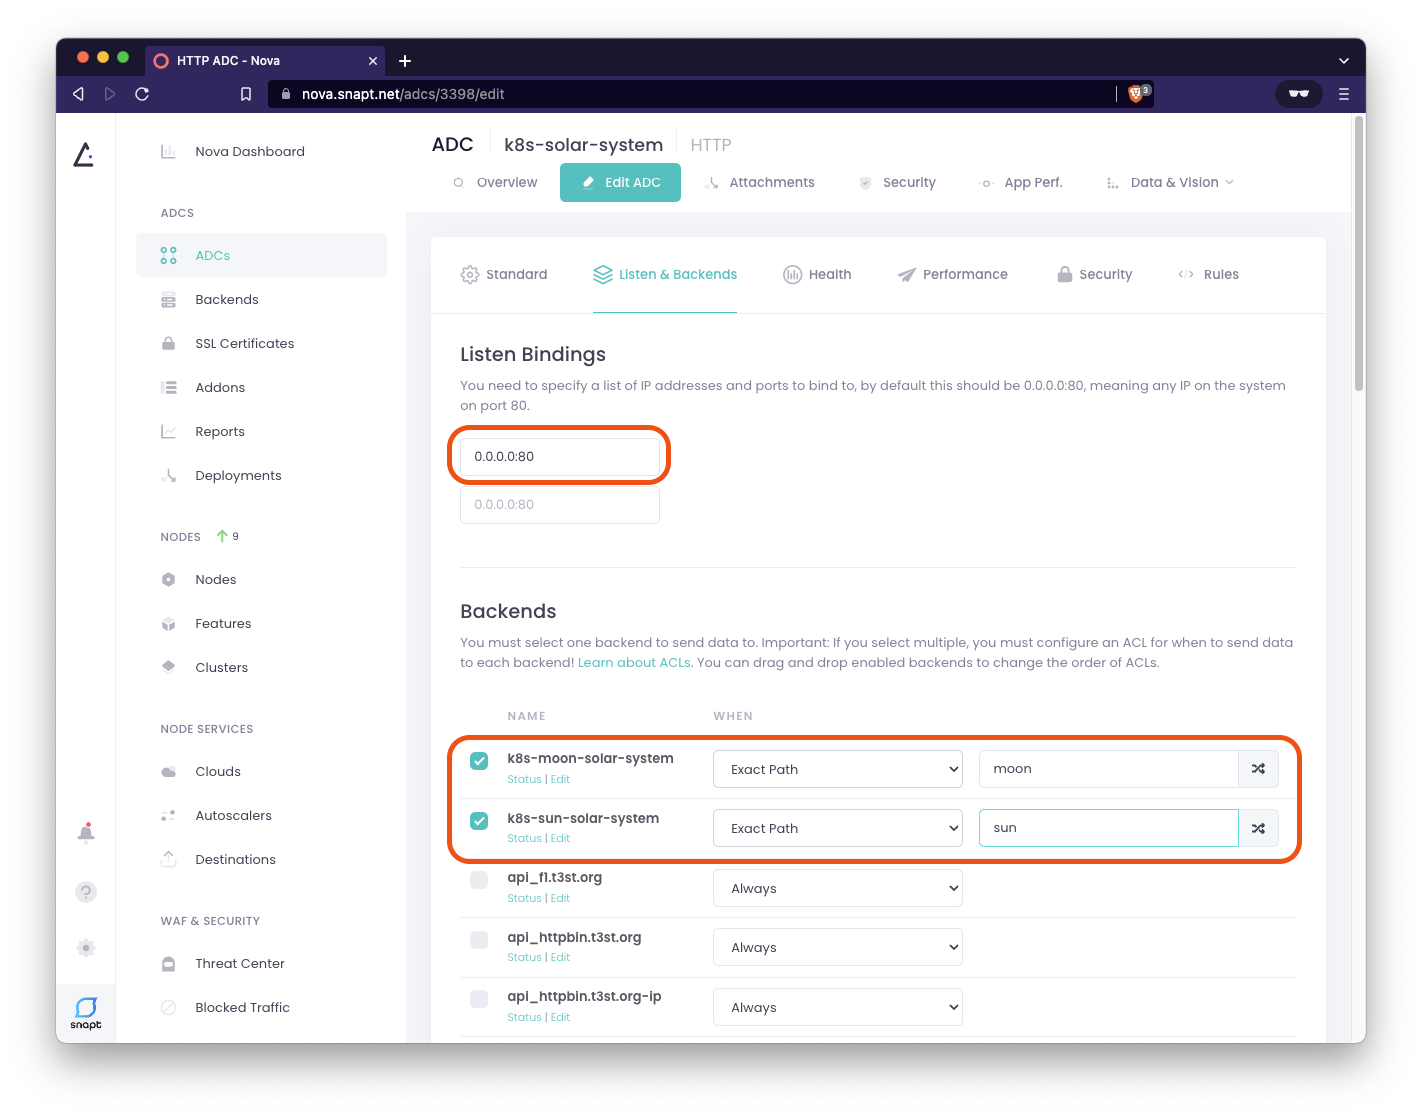
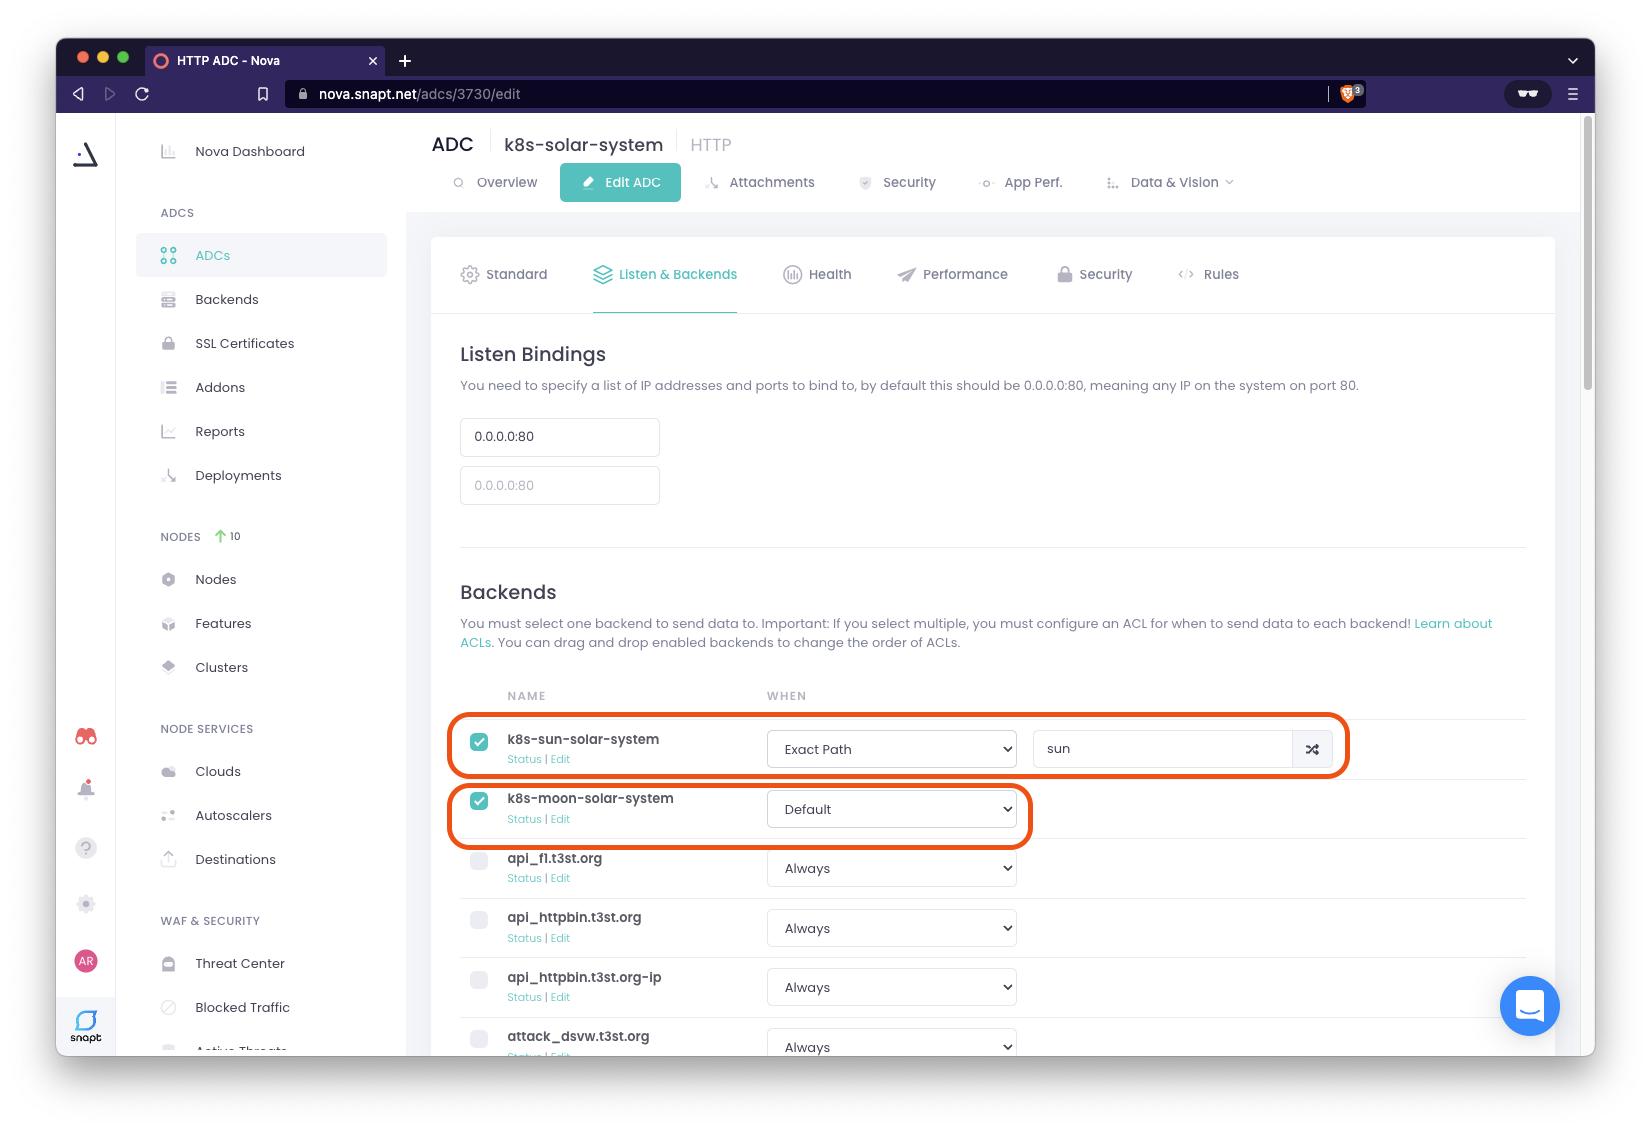
update readme

diff --git a/docs/deploy-nova-helm/service-discovery-normal-vs-headless-services.md b/docs/deploy-nova-helm/service-discovery-normal-vs-headless-services.md
@@ -55,21 +55,20 @@ pods in a "Headless" Services.
 ### Use a simple network utility Pod to test our DNS
 
 1. Use
-   [**dnsutils**](https://kubernetes.io/docs/tasks/administer-cluster/dns-debugging-resolution/),
+   [**network-tools**]https://github.com/armsultan/docker-network-tools),
    a utility Docker network troubleshooting container to run a DNS lookup. First
    deploy the network utility pod
 
    ```bash
    # Use this manifest to create the network utility Pod:
-   kubectl apply -f https://k8s.io/examples/admin/dns/dnsutils.yaml
-
-   pod/dnsutils created
+   kubectl apply -f deployments/tools/network-tools.yaml
+   pod/network-tools created
 
    # verify it's status
-   kubectl get pods dnsutils
+   kubectl get pods network-tools
 
-   NAME       READY   STATUS    RESTARTS   AGE
-   dnsutils   1/1     Running   0          37s
+   NAME           READY    STATUS    RESTARTS   AGE
+   network-tools   1/1     Running   0          37s
    ```
 
 ### Run DNS checks on "Normal" Service
@@ -80,13 +79,13 @@ deployed our sun and moon applications with a "normal" service. We used [this
 manifest file](../../deployments/simple-app/simple-app-service.yaml) which
 **does not** explicitly se `clusterIP: None`
 
-1.  Now that the `dnsutils` pod is running, you can use `kubectl exec` to do a `nslookup` or
+1.  Now that the `network-tools` pod is running, you can use `kubectl exec` to do a `nslookup` or
     `dig` or in that environment. If you see something like the following when
     querying for the **sun** service, DNS is working correctly.
 
    ```bash
    # Find out Sun Application
-   kubectl exec -i -t dnsutils -- nslookup  _http._tcp.sun-svc.solar-system.svc.cluster.local
+   kubectl exec -i -t network-tools -- nslookup  _http._tcp.sun-svc.solar-system.svc.cluster.local
 
    Server:         10.100.0.10
    Address:        10.100.0.10#53
@@ -103,7 +102,7 @@ manifest file](../../deployments/simple-app/simple-app-service.yaml) which
 
    ```bash
    # Find out Moon Application
-   kubectl exec -i -t dnsutils -- nslookup  _http._tcp.moon-svc.solar-system.svc.cluster.local
+   kubectl exec -i -t network-tools -- nslookup  _http._tcp.moon-svc.solar-system.svc.cluster.local
 
   Server:         10.100.0.10
   Address:        10.100.0.10#53
@@ -190,7 +189,7 @@ so we know to expect exactly two SRV records, one for each pod in the service
 
    ```bash
    # Find out Sun Application
-   kubectl exec -i -t dnsutils -- nslookup  _http._tcp.sun-svc.solar-system.svc.cluster.local
+   kubectl exec -i -t network-tools -- nslookup  _http._tcp.sun-svc.solar-system.svc.cluster.local
 
    Server:         10.100.0.10
    Address:        10.100.0.10#53
@@ -213,7 +212,7 @@ so we know to expect exactly two SRV records, one for each pod in the service
 
    ```bash
    # Find out Moon Application
-   kubectl exec -i -t dnsutils -- nslookup  _http._tcp.moon-svc.solar-system.svc.cluster.local
+   kubectl exec -i -t network-tools -- nslookup  _http._tcp.moon-svc.solar-system.svc.cluster.local
 
    Server:         10.100.0.10
    Address:        10.100.0.10#53
@@ -229,6 +228,44 @@ so we know to expect exactly two SRV records, one for each pod in the service
     with the address `192.168.70.95` and `192.168.26.52`, as it is a "headless"
     service
    * Again, we see `kube-dns` is the internal kubernetes DNS and is available on `10.100.0.10:53`
+
+### See load balancing via service in action
+
+1. Make some `curl` request to ther service discovery address from the network
+   utility container and witness request "load balance" between all pods *randomly*
+
+   ```bash
+   # Sun
+   kubectl exec -i -t network-tools -- /bin/bash -c "for i in {1..10}; do curl -s http://_http._tcp.sun-svc.solar-system.svc.cluster.local:8080 | grep 'Server address'; done"
+
+   Server address: 192.168.72.194:8080
+   Server address: 192.168.72.194:8080
+   Server address: 192.168.72.194:8080
+   Server address: 192.168.32.100:8080
+   Server address: 192.168.32.100:8080
+   Server address: 192.168.72.194:8080
+   Server address: 192.168.32.100:8080
+   Server address: 192.168.72.194:8080
+   Server address: 192.168.72.194:8080
+   Server address: 192.168.32.100:8080
+   ```
+
+   ```bash
+   # Moon
+   kubectl exec -i -t network-tools -- /bin/bash -c "for i in {1..10}; do curl -s http://_http._tcp.moon-svc.solar-system.svc.cluster.local:8080 | grep 'Server address'; done"
+
+   Server address: 192.168.70.95:8080
+   Server address: 192.168.26.52:8080
+   Server address: 192.168.26.52:8080
+   Server address: 192.168.70.95:8080
+   Server address: 192.168.70.95:8080
+   Server address: 192.168.26.52:8080
+   Server address: 192.168.70.95:8080
+   Server address: 192.168.26.52:8080
+   Server address: 192.168.26.52:8080
+   Server address: 192.168.26.52:8080
+   ```
+
 
 ### Optional: Use kubectl to find kube-dns address
 

diff --git a/docs/deploy-nova-helm/troubleshooting-nova-deployment.md b/docs/deploy-nova-helm/troubleshooting-nova-deployment.md
@@ -1,5 +1,76 @@
 WIP:
 
+
+kubectl exec -i -t network-tools -- dig ad95405e2bbfc4e97af5866540135fe2-1347037189.us-west-2.elb.amazonaws.com
+kubectl exec -i -t network-tools -- curl ad95405e2bbfc4e97af5866540135fe2-1347037189.us-west-2.elb.amazonaws.com
+
+## Test access to our application from *inside* the kubernetes cluster
+
+From our network utility container, *inside* the kubernetes cluster
+
+1.  Make a internal request using `curl` to the `sun-svc` service:
+    ```bash
+    kubectl exec -i -t network-tools -- curl  _http._tcp.sun-svc.solar-system.svc.cluster.local:8080
+    ```
+
+1. Make a internal request using `curl` to the `moon-svc` service:
+    ```bash
+    kubectl exec -i -t network-tools -- curl  _http._tcp.moon-svc.solar-system.svc.cluster.local:8080
+    ```
+
+1. Make a internal request using `curl` to the nova worker node (pod) directly using the `clusterIP`:
+    ```bash
+    # using the default / path
+    kubectl exec -i -t network-tools -- curl 10.100.138.162 -I
+
+    HTTP/1.1 200 OK
+    Date: Fri, 06 May 2022 16:45:50 GMT
+    Content-Type: text/plain
+    Content-Length: 210
+    Expires: Fri, 06 May 2022 16:45:49 GMT
+    Cache-Control: no-cache
+    Server: NOVA    # <---This confirms we have been proxied by the Nova ADC worker node
+    Set-Cookie: NOVAID-3da547439a9e6285686202e9c8f610b1=dba2f13a1909f004; path=/; HttpOnly
+    ```
+
+1. Make a series of internal requests using `curl` to the nova worker node (pod)
+   directly using the `clusterIP`, via Nova, we will be equally load balanced in
+   a round robin manner:
+    ```bash
+    kubectl exec -i -t network-tools -- /bin/bash -c "for i in {1..10}; do curl -s http://10.100.138.162 | grep 'Server address'; done"
+
+    # You can see we have been load balanced in "Round Robin":
+    Server address: 192.168.26.52:8080
+    Server address: 192.168.70.95:8080
+    Server address: 192.168.26.52:8080
+    Server address: 192.168.70.95:8080
+    Server address: 192.168.26.52:8080
+    Server address: 192.168.70.95:8080
+    Server address: 192.168.26.52:8080
+    Server address: 192.168.70.95:8080
+    Server address: 192.168.26.52:8080
+    Server address: 192.168.70.95:8080
+    ```
+
+## Test access to our application from *outside* the kubernetes cluster
+
+1. Find the LoadBalancer address
+
+kubectl exec -i -t network-tools -- /bin/bash -c "for i in {1..10}; do curl -s http://_http._tcp.moon-svc.solar-system.svc.cluster.local:8080 | grep 'Server address'; done"
+
+1. Get the loadBalancer Address for Nova (`nova-srv`) service, then run a `curl`
+   command to test access from *outside* the kubernetes cluster
+
+# Get External loadBalancer address
+NOVA_LB=$(kubectl get services/nova-svc -n nova-ns -o jsonpath='{.status.loadBalancer.ingress[*].hostname}')
+
+# Optional: Get a IPv4 Address
+NOVA_LB=$(dig +short $COFFEE_LB A |  awk 'NR==1')
+
+# Nova Service
+curl -s http://$NOVA_LB | grep title
+
+
 ## Troubleshooting
 
 If the Pod is stuck in a `pending`  state, we can troubleshoot with the following:

diff --git a/docs/deploy-nova-helm/test-access-to-applications.md b/docs/deploy-nova-helm/test-access-to-applications.md
@@ -1,0 +1,78 @@
+# Test access to our applications
+
+We can run some quick tests from a pod *inside* the kubernetes cluster and from a
+external client over the internet
+
+## Test access to our application from *inside* the kubernetes cluster
+
+From our network utility container, *inside* the kubernetes cluster
+
+1.  Make a internal request using `curl` to the `sun-svc` service:
+    ```bash
+    kubectl exec -i -t network-tools -- curl  _http._tcp.sun-svc.solar-system.svc.cluster.local:8080
+    ```
+
+1. Make a internal request using `curl` to the `moon-svc` service:
+    ```bash
+    kubectl exec -i -t network-tools -- curl  _http._tcp.moon-svc.solar-system.svc.cluster.local:8080
+    ```
+
+1. Make a internal request using `curl` to the nova worker node (pod) directly using the `clusterIP`:
+    ```bash
+    # using the default / path
+    kubectl exec -i -t network-tools -- curl 10.100.138.162 -I
+
+    HTTP/1.1 200 OK
+    Date: Fri, 06 May 2022 16:45:50 GMT
+    Content-Type: text/plain
+    Content-Length: 210
+    Expires: Fri, 06 May 2022 16:45:49 GMT
+    Cache-Control: no-cache
+    Server: NOVA    # <---This confirms we have been proxied by the Nova ADC worker node
+    Set-Cookie: NOVAID-3da547439a9e6285686202e9c8f610b1=dba2f13a1909f004; path=/; HttpOnly
+    ```
+
+1. Make a series of internal requests using `curl` to the nova worker node (pod)
+   directly using the `clusterIP`, via Nova, we will be equally load balanced in
+   a round robin manner:
+    ```bash
+    kubectl exec -i -t network-tools -- /bin/bash -c "for i in {1..10}; do curl -s http://10.100.138.162 | grep 'Server address'; done"
+
+    # You can see we have been load balanced in "Round Robin":
+    Server address: 192.168.26.52:8080
+    Server address: 192.168.70.95:8080
+    Server address: 192.168.26.52:8080
+    Server address: 192.168.70.95:8080
+    Server address: 192.168.26.52:8080
+    Server address: 192.168.70.95:8080
+    Server address: 192.168.26.52:8080
+    Server address: 192.168.70.95:8080
+    Server address: 192.168.26.52:8080
+    Server address: 192.168.70.95:8080
+    ```
+
+## Test access to our application from *outside* the kubernetes cluster
+
+1. Find the the external DNS name or Public IP address associated to the
+   loadBalancer for the Nova (`nova-srv`) service.
+   
+   ```bash
+    # Get External loadBalancer address
+    NOVA_LB=$(kubectl get services/nova-svc -n nova-ns -o jsonpath='{.status.loadBalancer.ingress[*].hostname}')
+
+    # Optional: Get the IPv4 Address
+    # NOVA_LB=$(dig +short $COFFEE_LB A |  awk 'NR==1')
+  ```
+
+1. Now run a `curl` command to test access from *outside* the kubernetes
+   cluster, in a terminal or web browser on you your client machine 
+
+   ```bash
+    # Using curl 
+    curl -s http://$NOVA_LB | grep title
+
+    # Using a web browser - get the DNS or IP address and enter into your web browser
+    echo $NOVA_LB
+
+    ad95405e2bbfc4e97af5866540135fe2-1347037189.us-west-2.elb.amazonaws.com
+   ```

diff --git a/docs/deploy-nova-helm/configure-simple-http-load-balancing-in-nova.md b/docs/deploy-nova-helm/configure-simple-http-load-balancing-in-nova.md
@@ -1,5 +1,5 @@
 
-# Configure a simple HTTP load Balancing service in Nova 
+# Configure simple HTTP load Balancing in Nova
 
 In the [last excerise](service-discovery-normal-vs-headless-services.md) we
 discovered the importance of using "headless" services in order for Nova to
@@ -83,9 +83,13 @@ backends, our **sun** and **moon** applications, to the internet
 
 1. Complete the **Listen & Backends** configurations of the a new ADC with the following details:
   * **Listen Bindings**:  `0.0.0.0:80` (default)
-  * **Backends**: 
+  * **Backends** (order is important, drag backend to re-order if nessacary): 
     * Checked - **NAME:** `k8s-sun-solar-system`, **WHEN:** `Exact Path`: `sun` 
-    * Checked - **NAME:** `k8s-moon-solar-system`, **WHEN:** `Exact Path`: `moon` 
+    * Checked - **NAME:** `k8s-moon-solar-system`, **WHEN:** `Default` 
+
+  This configuration will route all requests to the **moon** application unless
+  a request with the exact path `/sun` is made, in which traffic to this url
+  path will get routed to the **sun** application 
 
   ![nova new node](media/image11.png)
 
@@ -122,6 +126,7 @@ backends, our **sun** and **moon** applications, to the internet
   ![nova new node](media/image12.png)
 
 Great, we have completed a simple HTTP Load Balancing configuration and should
-be able to access our applications from the internet!
+be able to access our applications from inside the kubernetes cluster and from
+the internet!
 
 Go back to [Table of Contents](../../README.md)

diff --git a/docs/deploy-nova-helm/deploy-nova-helm.md b/docs/deploy-nova-helm/deploy-nova-helm.md
@@ -131,14 +131,14 @@ nodes deployed
   ```bash
   $ kubectl get pods,deployments,services -n nova-ns
 
-  NAME                            READY   STATUS    RESTARTS   AGE
-  pod/nova-dpl-6bc44869ff-zkmsb   1/1     Running   0          42s
+  NAME                           READY   STATUS    RESTARTS   AGE
+  pod/nova-dpl-99fcc6c69-2scb4   1/1     Running   0          16h
 
   NAME                       READY   UP-TO-DATE   AVAILABLE   AGE
-  deployment.apps/nova-dpl   1/1     1            1           42s
+  deployment.apps/nova-dpl   1/1     1            1           16h
 
-  NAME               TYPE           CLUSTER-IP     EXTERNAL-IP                                                              PORT(S)                                     AGE
-  service/nova-svc   LoadBalancer   10.100.73.58   ab966acbf6845494caab3ca1ef0b5210-598635283.us-west-2.elb.amazonaws.com   443:30727/TCP,80:31689/TCP,1080:30011/TCP   42s
+  NAME               TYPE           CLUSTER-IP       EXTERNAL-IP                                                               PORT(S)                                     AGE
+  service/nova-svc   LoadBalancer   10.100.138.162   ad95405e2bbfc4e97af5866540135fe2-1347037189.us-west-2.elb.amazonaws.com   443:32297/TCP,80:32643/TCP,1080:31318/TCP   16h
   ```
   We can confirm the Nova worker node is deployed successfully inside kubernetes
   because all three are reported:

diff --git a/README.md b/README.md
@@ -19,6 +19,10 @@ services realiably and securely using [Snapt Nova](https://www.snapt.net/platfor
    2. An Important sidebar: [Service Discovery on "Normal" vs "Headless" services](docs/deploy-nova-helm/service-discovery-normal-vs-headless-services.md)
    1. [Configure simple HTTP load Balancing in Nova](docs/deploy-nova-helm/configure-simple-http-load-balancing-in-nova.md)
 
+1. Client-side testing, accessing applications exposed by Nova for Kubernetes
+   1. [Test access to our applications](docs/deploy-nova-helm/test-access-to-applications.md)
+
+
 ## Troubleshooting Nova 
    1. WIP, see [troubleshooting](docs/deploy-nova-helm/troubleshooting-nova-deployment.md)
 

diff --git a/docs/dev-container/Lab-setup-using-dev-container.md b/docs/dev-container/Lab-setup-using-dev-container.md
@@ -66,4 +66,16 @@ container in VS Code
 
   ![vs code](media/image5.png)
 
+## Troubleshooting
+
+If you need to force a rebuild of the dev container, run the following commands
+
+```bash
+# in host terminal
+cd .devcontainer
+docker build --no-cache .          # build the image without using the local cached layers
+docker build --no-cache --pull .   # also pull new base image (FROM)
+# after build the image, reopen remote container in the vscode
+```
+
 We are now ready to run the lab! - Go back to [Table of Contents](../../README.md)
